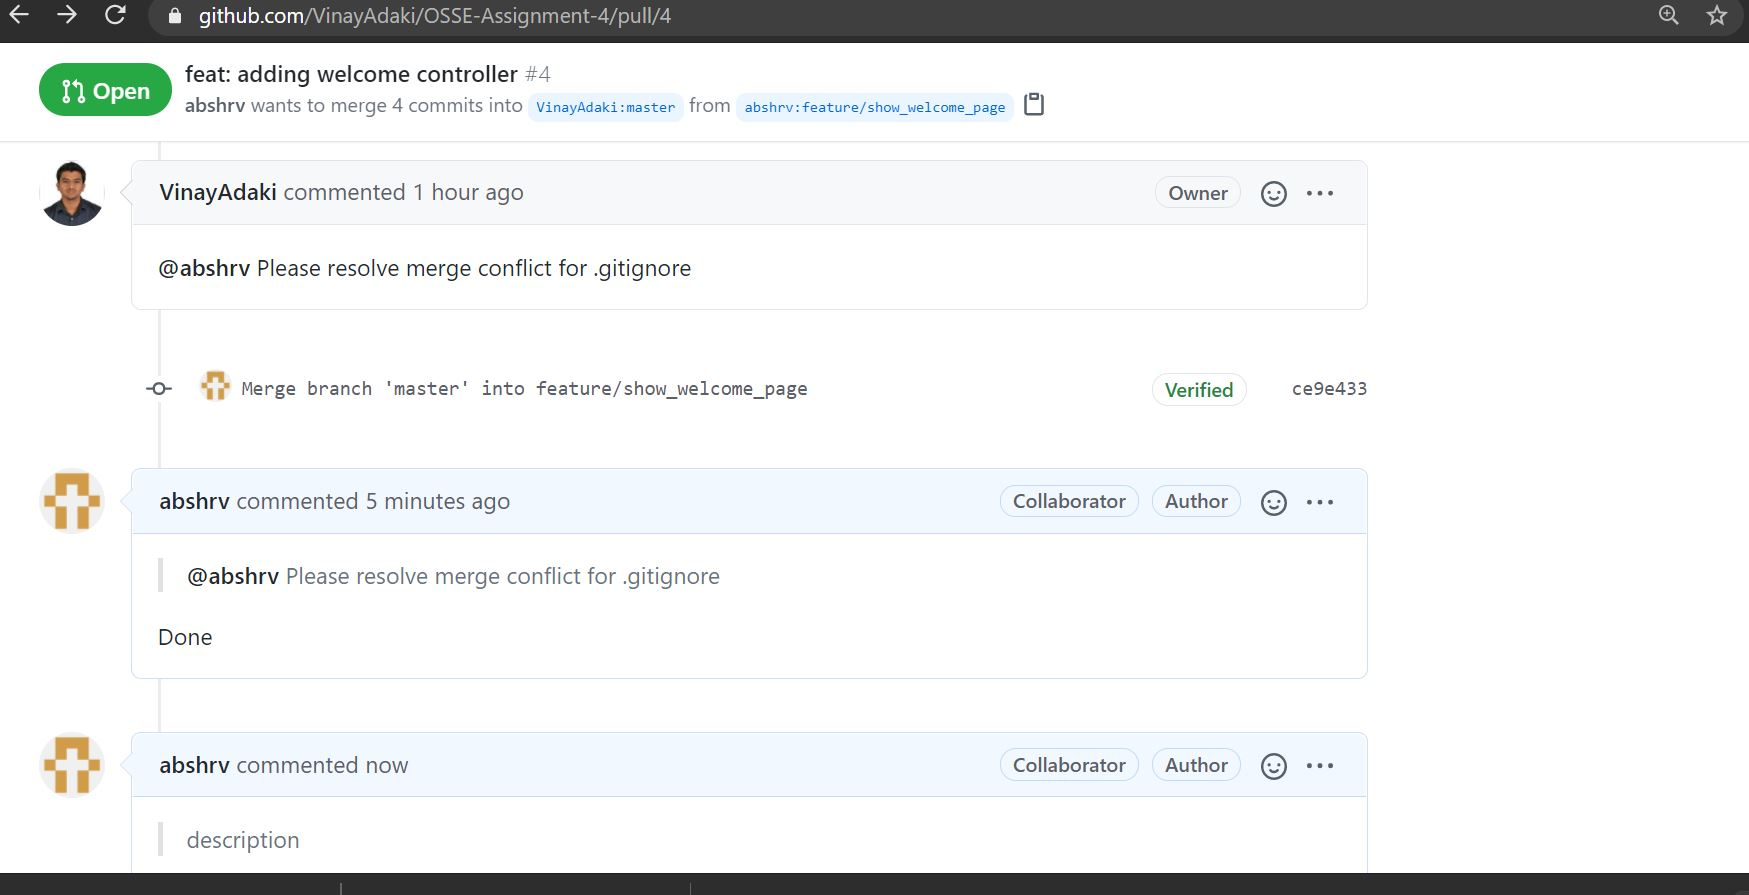
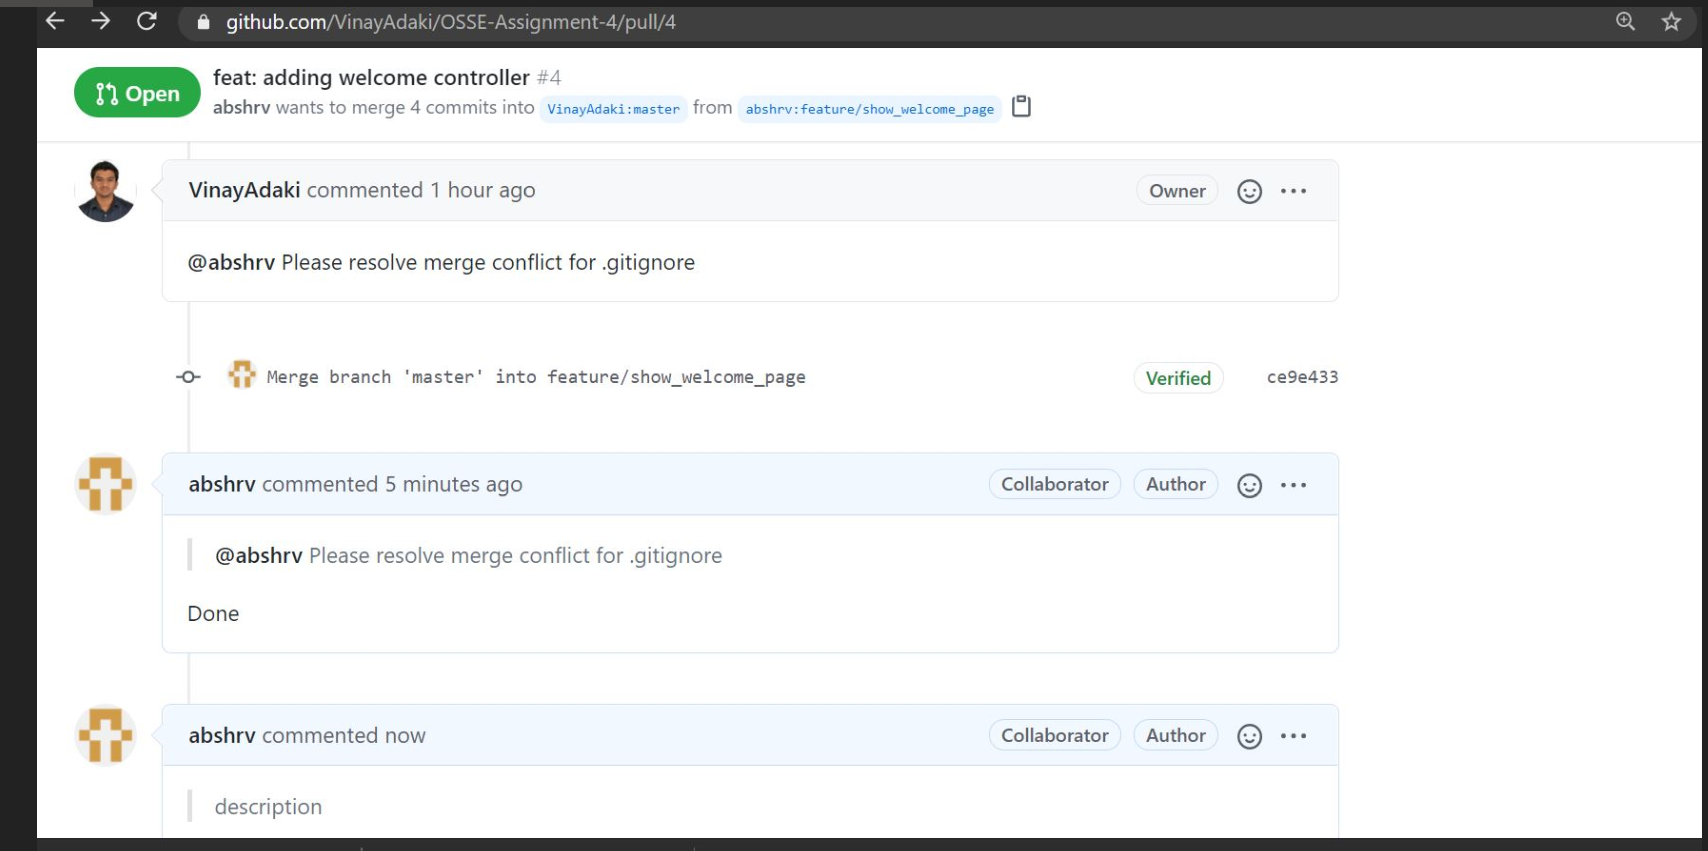
some issue with png file, hence re-hosting

diff --git a/README.md b/README.md
@@ -31,7 +31,7 @@ Step followed
 ![abhishek_form](img/abhishek/Abhishek_Fork.png)
 ![abhishek_project_board](img/abhishek/Project_Board_Abhishek_task.png)
 ![abhishek_pr](img/abhishek/Abhishek_Pull_request.png)
-![abhishek_review_comments](img/abhishek/Abhishek_pr.png)
+![abhishek_review_comments](img/abhishek/abhishek_pr.png)
 
 
 ## Changes done by Abhishek : End
